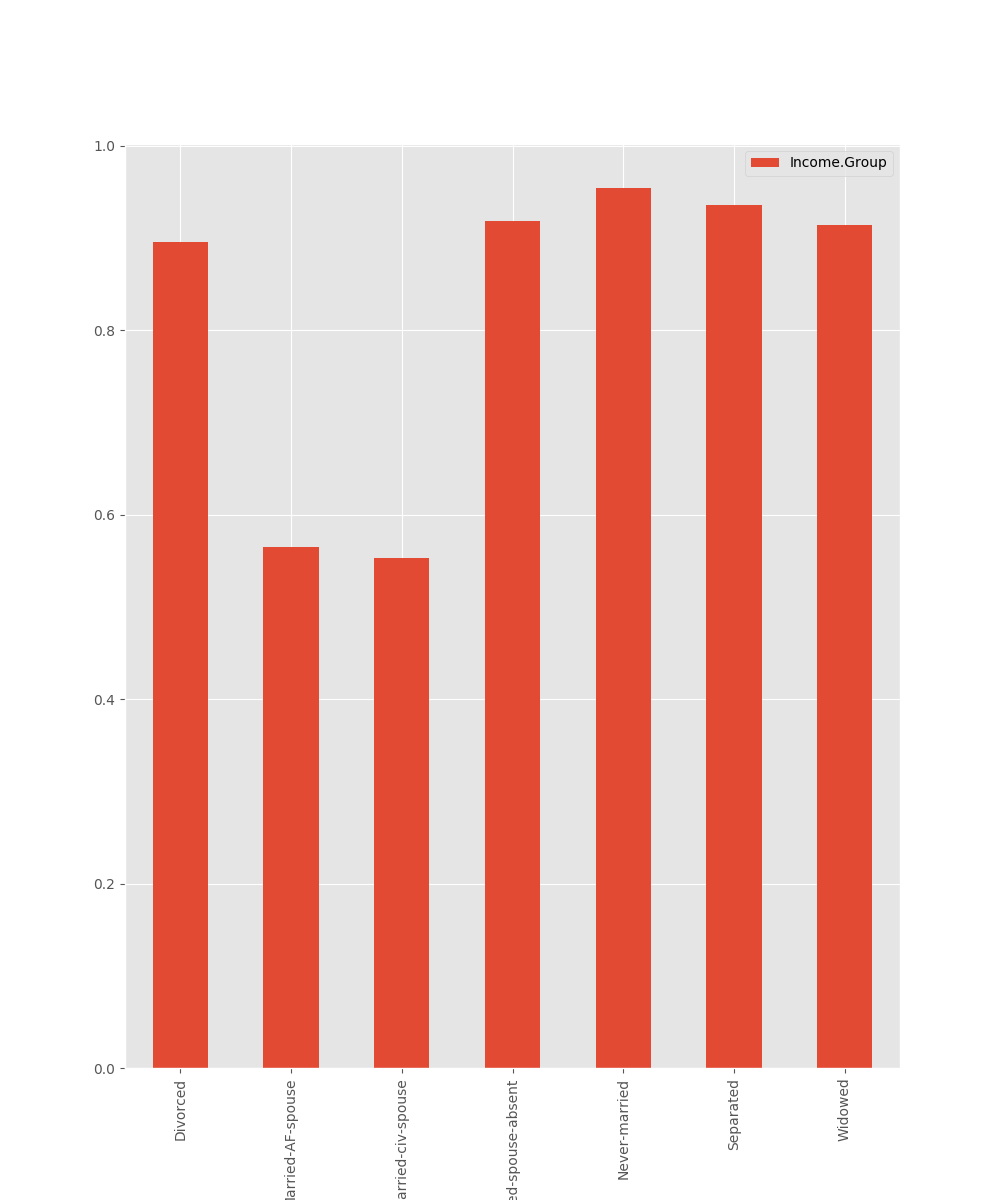
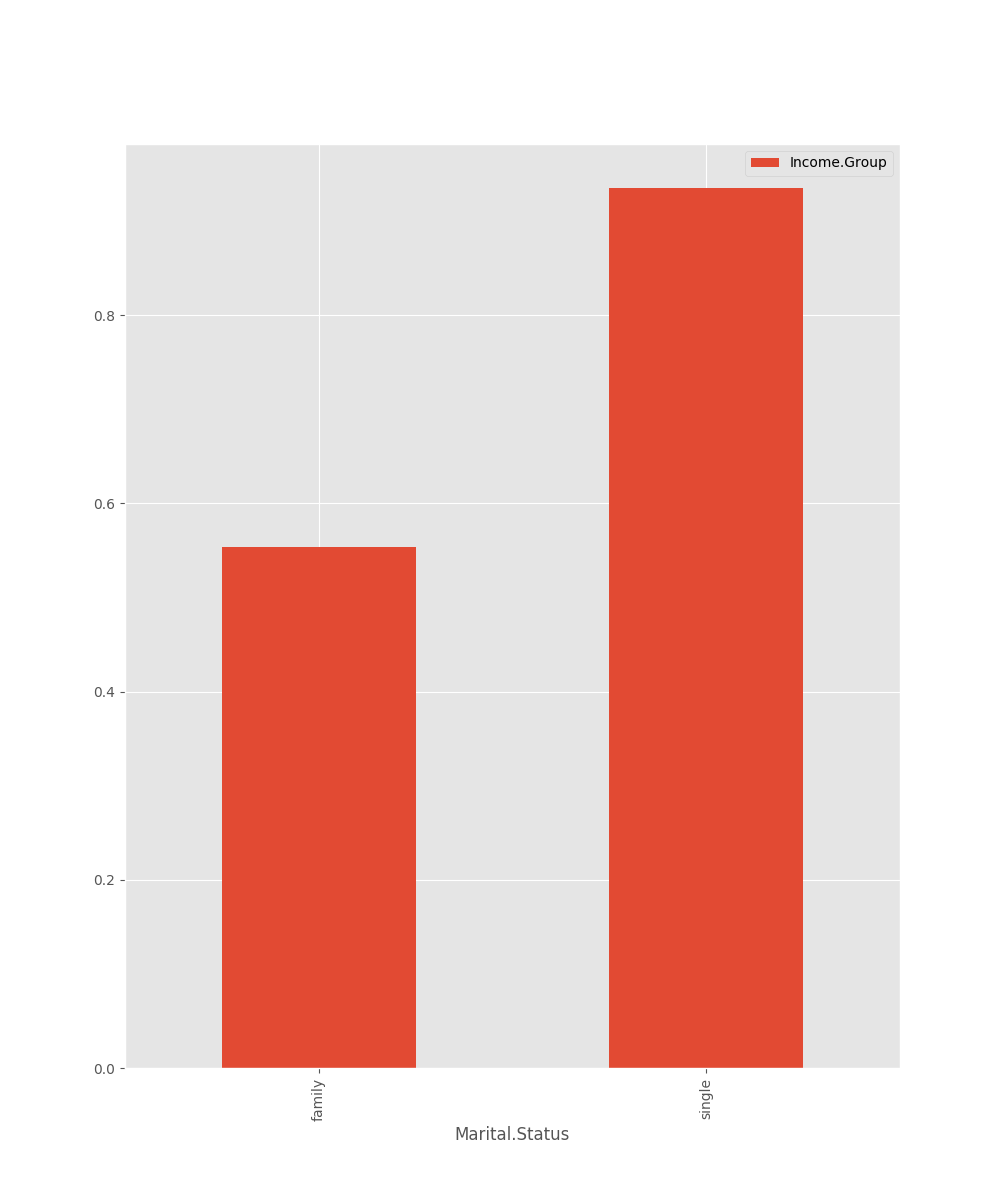
finished data preparation for modeling

diff --git a/data_prep_mine.py b/data_prep_mine.py
@@ -11,7 +11,7 @@ test2 = pd.read_csv('test_data_bank.csv')
 
 # convert Income.Group to be boolean
 bool_income_d = {'<=50K': True, '>50K': False}
-train2['Income.Group'] = train2['Income.Group'].map(bool_income_dd)
+train2['Income.Group'] = train2['Income.Group'].map(bool_income_d)
 
 
 ########## 4. Data Exploration ###
@@ -46,7 +46,6 @@ def plot_hist_for_continuous(df_train, group_names, predictor_label, target_labe
 
 plot_hist_for_continuous(train2, ['above 50k', 'below 50k'], 'Age', 'Income.Group', ['green', 'orange'])
 
-
 ##### WORKCLASS #####
 train2['Workclass'].value_counts()/train2.shape[0]
 
@@ -57,8 +56,8 @@ def plot_pivot_bar(df_train, predictor_label, target_label):
 
 plot_pivot_bar(train2, 'Workclass', 'Income.Group')
 
-# For the same effect as pivot
-# cross-tab and plot (add percent)
+"""
+# For the same effect as pivot - cross-tab and plot (add percent)
 workclass_ct = pd.crosstab(train2['Workclass'], train2['Income.Group'], margins=True)
 workclass_ct.iloc[:-1,:-1].plot.bar(figsize=(10, 12), stacked=True, color=['green', 'orange'], grid=False)
 plt.savefig('workclass_incomegroup_cross_bar.png')
@@ -69,37 +68,31 @@ def percConvert(ser):
 workclass_ct_perc = workclass_ct.apply(percConvert, axis=1)
 workclass_ct_perc.iloc[:-1,:-1].plot.bar(figsize=(10, 12), stacked=True, color=['blue', 'pink'], grid=False)
 plt.savefig('workclass_incomegroup_cross_bar_perc.png')
-
+"""
 
 ##### EDUCATION #####
 train2['Education'].value_counts()/train2.shape[0]
 plot_pivot_bar(train2, 'Education', 'Income.Group')
 
-
 ##### MARTIAL STATUS #####
 train2['Marital.Status'].value_counts()/train2.shape[0]
 plot_pivot_bar(train2, 'Marital.Status', 'Income.Group')
-
 
 ##### OCCUPATION #####
 train2['Occupation'].value_counts()/train2.shape[0]
 plot_pivot_bar(train2, 'Occupation', 'Income.Group')
 
-
 ##### RELATIONSHIP #####
 train2['Relationship'].value_counts()/train2.shape[0]
 plot_pivot_bar(train2, 'Relationship', 'Income.Group')
-
 
 ##### RACE #####
 train2['Race'].value_counts()/train2.shape[0]
 plot_pivot_bar(train2, 'Race', 'Income.Group')
 
-
 ##### SEX #####
 train2['Sex'].value_counts()/train2.shape[0]
 plot_pivot_bar(train2, 'Sex', 'Income.Group')
-
 
 ##### HOURS PER WEEK #####
 train2['Hours.Per.Week'].plot.hist()
@@ -107,19 +100,25 @@ plt.savefig('hours_simple_hist.png')
 
 plot_hist_for_continuous(train2, ['above 50k', 'below 50k'], 'Hours.Per.Week', 'Income.Group', ['green', 'orange'])
 
-
 ##### NATIVE COUNTRY #####
 train2['Native.Country'].value_counts()/train2.shape[0]
 plot_pivot_bar(train2, 'Native.Country', 'Income.Group')
 
 
 ##### HANDLING NANS #####
-work_nans = list(np.where(train2['Workclass'].isnull())[0])
-occ_nans = list(np.where(train2['Occupation'].isnull())[0])
+def compare_nans(df_train, variable_labels):
+    """
+    Takes two variables from df and checks if the nans relate to the same records in both variables
+    :param df_train: data frame with train data
+    :param variable_labels: list of variables labels which have NaN values
+    :return: a list with indexes of NaN which are in one variable, but not in the other
+    """
+    l0 = list(np.where(df_train[variable_labels[0]].isnull())[0])
+    l1 = list(np.where(df_train[variable_labels[1]].isnull())[0])
+    diff = list(set(l0)-set(l1))
+    return diff
 
-diff = lambda l1,l2: [x for x in l1 if x not in l2]
-diff(work_nans, occ_nans)
-list(set(work_nans)-set(occ_nans))
+compare_nans(train2, ['Workclass', 'Occupation'])
 
 
 """
@@ -179,7 +178,7 @@ def replace_nans(df_train, df_test, variable_labels, new_value):
     Takes data frames with train and test values and replaces NaNs with new values
     :param df_train: data frame with train data
     :param df_test: data frame with test data
-    :param variable_label: list of variables labels which have NaN values
+    :param variable_labels: list of variables labels which have NaN values
     :param new_value: new string values for NaN
     :return: two data frames with replaced NaNs
     """
@@ -230,6 +229,7 @@ group_with_dict(train_clean, test_clean, 'Workclass', {'Private':'private','Miss
                                                        'Federal-gov':'gov', 'State-gov':'gov',
                                                        'Local-gov':'gov', 'Never-worked':'no_pay',
                                                        'Without-pay':'no_pay'})
+plot_pivot_bar(train_clean, 'Workclass', 'Income.Group')
 
 # Education - new categories
 group_with_dict(train_clean, test_clean, 'Education', {'HS-grad':'college', 'Some-college':'college',
@@ -238,14 +238,14 @@ group_with_dict(train_clean, test_clean, 'Education', {'HS-grad':'college', 'Som
                                                        '7th-8th':'secondary', 'Prof-school':'docs', '9th':'secondary',
                                                        '12th':'college', 'Doctorate':'docs', '5th-6th':'primary',
                                                        '1st-4th':'primary', 'Preschool':'primary'})
-
+plot_pivot_bar(train_clean, 'Education', 'Income.Group')
 
 # Marital.Status - new categories:
 group_with_dict(train_clean, test_clean, 'Marital.Status', {'Married-civ-spouse':'family', 'Never-married':'single',
                                                             'Divorced':'single', 'Separated':'single',
                                                             'Widowed':'single', 'Married-spouse-absent':'single',
                                                             'Married-AF-spouse':'family'})
-
+plot_pivot_bar(train_clean, 'Marital.Status', 'Income.Group')
 
 # Occupation - put all categories under 5% into one group
 
@@ -266,22 +266,53 @@ def group_minors(df_train, df_test, variable_label, threshold):
         df_test[variable_label].replace({category:'others'}, inplace=True)
 
 group_minors(train_clean, test_clean, 'Occupation', 0.05)
-
+plot_pivot_bar(train_clean, 'Occupation', 'Income.Group')
 
 # Race - Put the last 3 in one group 'Other'
 group_with_dict(train_clean, test_clean, 'Race', {'White':'white', 'Black':'black', 'Asian-Pac-Islander':'other',
                                                   'Amer-Indian-Eskimo':'other', 'Other':'other'})
-
+plot_pivot_bar(train_clean, 'Race', 'Income.Group')
 
 # Hours.Per.Week - Most people work around 40 hours.Make bins: below 40, equals 40 and above 40
 put_into_bins(train_clean, test_clean, 'Hours.Per.Week', [0, 39, 40, 100], ['below_mode', 'equals_mode', 'above_mode'])
 plot_pivot_bar(train_clean, 'Hours.Per.Week_cat', 'Income.Group')
 
-
 # Native.Country - Try making two categories: USA and Others
 group_minors(train_clean, test_clean, 'Native.Country', 0.02)
-
+plot_pivot_bar(train_clean, 'Native.Country', 'Income.Group')
 
 
 ########## 5. Predictive Modeling ###
+
+# create dummies for categorical values
+
+def create_dummies(df, variable_label):
+    """
+    Takes a df column with variable_label and creates dummies for it
+    :param df: data frame name
+    :param variable_label: name of column
+    :return: df with added columns for dummies
+    """
+    dummies = pd.get_dummies(df[variable_label], prefix=variable_label)
+    return pd.concat([df, dummies], axis=1)
+
+def apply_dummies(df_train, df_test, variable_labels):
+    """
+    Takes data frames with train and test values and applies create_dummies function to given columns
+    :param df_train: data frame with train data
+    :param df_test: data frame with test data
+    :param variable_labels: list of variables labels which need dummies columns
+    :return:
+    """
+    for variable in variable_labels:
+        df_train = create_dummies(df_train, variable)
+        df_test = create_dummies(df_test, variable)
+    return df_train, df_test
+
+train_clean, test_clean = apply_dummies(train_clean, test_clean, ['Workclass', 'Education', 'Marital.Status', 'Occupation', 'Race', 'Sex',
+                                        'Age_cat', 'Hours.Per.Week_cat'])
+
+
+
+
 
